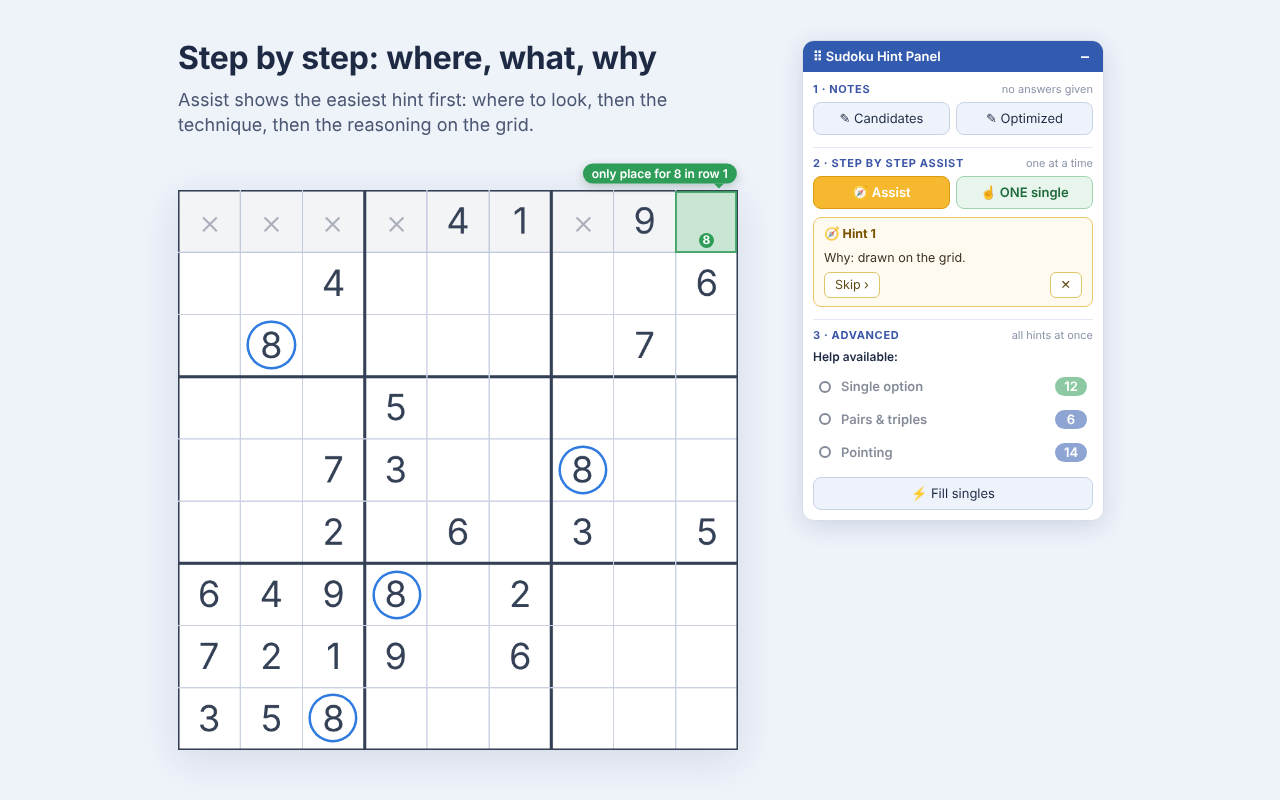
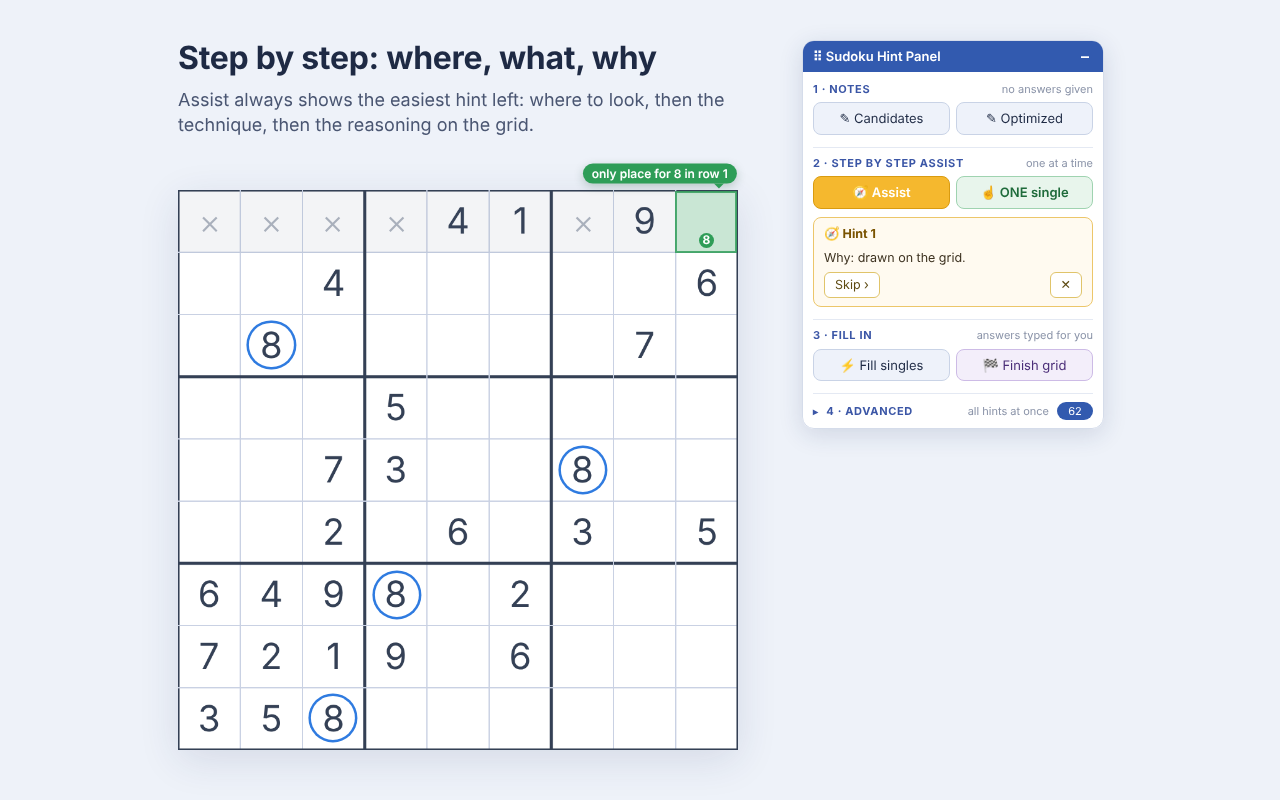
4.1.0 — public release: new description, screenshots and marquee
Store description (EN/FR) rewritten around the four sections and the full
set of techniques; manifest summary updated; five new screenshots
(overview, step by step assist, reasoning, optimized notes, expert
techniques) and a new marquee, all from the current panel.

Claude-Session: https://claude.ai/code/session_01U1DuCeTJMyiTMPg3LWMkC1

Changed region(s): [[0.625, 0.4062, 0.875, 0.5938], [0.1875, 0.0938, 0.5312, 0.1562], [0.7188, 0.5938, 0.7812, 0.625]]

diff --git a/store/listing-fr.md b/store/listing-fr.md
@@ -4,38 +4,43 @@
 Sudoku Hint Panel
 
 ## Résumé (132 car. max — la « description courte »)
-Apprenez les techniques de sudoku sur sudoku.com : voyez s'il y a de l'aide, de quel type et où — un indice à la fois, expliqué.
+Apprenez les techniques de sudoku sur sudoku.com : des notes jusqu'à un indice à la fois, expliqué — au niveau d'aide choisi.
 
 ## Catégorie
 Jeux  *(alternative : Éducation)*
 
 ## Description
 
-Sudoku Hint Panel est un compagnon d'apprentissage pour les grilles de sudoku.com. Il ne résout jamais la grille à votre place sans que vous le demandiez : il vous dit si une étape est possible, quelle technique elle utilise et où elle se trouve — au niveau d'aide que vous choisissez.
+Sudoku Hint Panel est un compagnon d'apprentissage pour les grilles de sudoku.com. Il ne résout jamais la grille à votre place sans que vous le demandiez : il vous dit si une étape est possible, quelle technique elle utilise et où elle se trouve — au niveau d'aide que vous choisissez, de la simple prise de notes jusqu'au raisonnement complet du prochain coup.
 
-APPRENEZ À VOTRE NIVEAU
-• Juste les compteurs : le panneau indique combien de choix uniques, paires et triplets, « pointing » et chaînes existent en ce moment. Rien n'est dessiné sur la grille tant que vous n'ouvrez pas une catégorie.
-• Une technique : ouvrez une catégorie pour voir ses indices, discrètement, sur la grille.
-• Un indice : « ☝ ONE single » montre un seul prochain coup, le plus simple d'abord, et le garde affiché jusqu'à ce que vous remplissiez la case.
-• Assistant pas à pas : « 🧭 Assist » vous guide un indice à la fois, de la technique la plus simple à la plus complexe — d'abord où regarder, puis quoi, puis pourquoi. Appliquez-le et le suivant apparaît ; « Skip » passe au suivant.
-• Le raisonnement : avec une catégorie activée, survolez un de ses indices sur la grille pour le voir en entier, avec les indices précédents dont il dépend — pour le trouver vous-même la prochaine fois.
-• Pourquoi c'est un choix unique, dessiné sur la grille : survolez une case verte — des cercles bleus montrent les chiffres qui excluent le reste, des × gris les cases impossibles, le rouge seulement quand un indice précédent a été nécessaire.
-
-TECHNIQUES
-• Choix unique — une case où un seul chiffre est possible, ou un chiffre qui n'a plus qu'une place dans une ligne, une colonne ou un carré.
-• Paires et triplets — 2 cases partageant les 2 mêmes candidats (ou 3 en partageant 3) : ces chiffres s'effacent du reste de la ligne, colonne ou carré. Paires et triplets cachés aussi : 2 chiffres qui ne vont que dans les 2 mêmes cases (ou 3 dans 3), dont les autres notes s'effacent.
-• Pointing — quand les candidats d'un chiffre dans un carré sont tous sur une même ligne ou colonne, ce chiffre s'efface du reste de cette ligne ; et inversement, quand ceux d'une ligne ou colonne sont tous dans un même carré, il s'efface du reste du carré.
-• Chaînes — quand rien de plus simple n'aide : là où un chiffre n'a que deux places dans une ligne, colonne ou carré, l'une des deux le contient. Reliées, ces cases alternent entre deux couleurs, et l'une des couleurs porte tous ces chiffres. Une couleur qui mettrait le chiffre deux fois dans une même unité est fausse, et une case qui voit les deux couleurs ne peut pas le contenir.
-• Techniques expertes, repliées jusqu'à ce que vous en ayez besoin : quads, X-wing et poissons (swordfish, jellyfish), wings (XY, XYZ, W), rectangles uniques, longues chaînes (X et XY) et chaînes forcées — chacune utilisée seulement quand rien de plus simple ne trouve rien.
-• Indices enchaînés — les indices qui n'apparaissent qu'après en avoir appliqué d'autres sont aussi trouvés, marqués « step 2, step 3… ».
-
-OUTILS PRATIQUES
+LE PANNEAU, DU MOINS D'AIDE AU PLUS
+1 · Notes — aucune réponse donnée
 • ✎ Candidates remplit les notes de toutes les cases vides.
-• ✎ Optimized les remplit déjà réduites par toutes les paires, triplets et « pointing », en chaîne jusqu'à ce que plus rien ne change.
-• ⚡ Fill singles inscrit le chiffre dans chaque case à choix unique.
-• 🏁 Finish grid inscrit la solution dans toutes les cases vides quand vous êtes vraiment bloqué (deux clics pour confirmer).
+• ✎ Optimized les remplit déjà réduites par toutes les paires, triplets, « pointing » et chaînes.
+
+2 · Assistant pas à pas — un indice à la fois
+• 🧭 Assist vous guide dans la grille, toujours avec l'indice le plus simple qui reste : d'abord où regarder, puis quoi (la technique et ses cases), puis pourquoi (le raisonnement dessiné sur la grille). Appliquez-le et le suivant apparaît ; « Skip » passe au suivant.
+• ☝ ONE single montre un seul prochain coup et le garde affiché jusqu'à ce que vous remplissiez la case.
+
+3 · Remplir — réponses tapées pour vous
+• ⚡ Fill singles inscrit le chiffre dans chaque case où un seul est possible.
+• 🏁 Finish grid inscrit toute la solution quand vous êtes vraiment bloqué (deux clics pour confirmer).
+
+4 · Avancé — tous les indices d'un coup (replié jusqu'à ce que vous l'ouvriez)
+• Combien d'indices existent pour chaque technique en ce moment ; ouvrez-en une pour les voir sur la grille, et survolez un indice pour voir pourquoi il marche et de quels indices précédents il dépend.
+
+LES TECHNIQUES, DE LA PLUS SIMPLE
+• Choix unique — une case où un seul chiffre est possible, ou un chiffre qui n'a plus qu'une place dans une ligne, une colonne ou un carré. Survolez une case verte pour voir pourquoi : des cercles bleus marquent les chiffres qui excluent le reste, des × gris les cases impossibles.
+• Pointing — les candidats d'un chiffre dans un carré sont tous sur une même ligne ou colonne (ou l'inverse) : ce chiffre s'efface du reste de la ligne (ou du carré).
+• Paires et triplets — visibles (2 cases partageant les 2 mêmes candidats, ou 3 en partageant 3) et cachés (2 chiffres qui ne vont que dans les 2 mêmes cases, ou 3 dans 3).
+• Chaînes — là où un chiffre n'a que deux places, les cases reliées alternent entre deux couleurs, et l'une des couleurs porte tous ces chiffres.
+• Techniques expertes, repliées jusqu'à ce que vous en ayez besoin : quads, X-wing et poissons (swordfish, jellyfish), wings (XY, XYZ, W), rectangles uniques, longues chaînes (X et XY) et chaînes forcées.
+Une technique plus difficile n'est utilisée que quand rien de plus simple ne trouve rien, pour que les indices restent aussi simples que la grille le permet. Les indices qui n'apparaissent qu'après en avoir appliqué d'autres sont aussi trouvés, marqués « step 2, step 3… ».
+
+BON À SAVOIR
 • Fonctionne en Classic et Killer, sur le défi quotidien et les éditions spéciales (ex. Storybook).
-• Se met à jour en direct pendant que vous jouez, fonctionne sur une nouvelle grille avant le premier coup, et ne dessine jamais par-dessus une fenêtre du site.
+• Se met à jour en direct pendant que vous jouez, fonctionne sur une nouvelle grille avant le premier coup, ne dessine jamais par-dessus une fenêtre du site, et se met en veille quand aucune partie n'est à l'écran.
+• Si l'une de vos notes exclut le chiffre qui va réellement dans la case, le panneau vous le signale et montre où, au lieu de donner un indice faux.
 • Panneau léger et déplaçable ; le vert est réservé aux cases où un seul chiffre est possible.
 
 FAIR-PLAY

diff --git a/store/listing-en.md b/store/listing-en.md
@@ -4,38 +4,43 @@
 Sudoku Hint Panel
 
 ## Summary (max 132 — the store's "short description")
-Learn sudoku techniques on sudoku.com: see if help exists, which kind, and where — one hint at a time, with its reasoning.
+Learn sudoku on sudoku.com: from filling notes to one hint at a time with its reasoning — at the level of help you choose.
 
 ## Category
 Games  *(alternative: Education)*
 
 ## Description
 
-Sudoku Hint Panel is a learning companion for the puzzles on sudoku.com. It never solves the grid for you unless you ask: it tells you whether a step is available, which technique it uses and where it is — at the level of help you choose.
+Sudoku Hint Panel is a learning companion for the puzzles on sudoku.com. It never solves the grid for you unless you ask: it tells you whether a step is available, which technique it uses and where it is — at the level of help you choose, from just filling your notes to the full reasoning of the next move.
 
-LEARN AT YOUR OWN LEVEL
-• Just the counts: the panel shows how many single options, pairs & triples, pointing and chain hints exist right now. Nothing is drawn on the grid until you open a category.
-• One technique: open a category to see its hints faintly on the grid.
-• One hint: "☝ ONE single" shows a single next move, easiest first, and keeps it until you fill the cell.
-• Step by step assist: "🧭 Assist" guides you one hint at a time, from the simplest technique to the most complex — first where to look, then what, then why. Apply it and the next one appears; Skip jumps ahead.
-• The reasoning: with a category on, hover one of its hints on the grid to see it in full, with the earlier hints it relies on — so next time you can find it yourself.
-• Why it's a single, drawn on the grid: hover a green cell — blue circles show the digits that rule out the rest, grey × the cells that can't take it, red only when an earlier hint was needed.
-
-TECHNIQUES
-• Single option — a cell where only one digit fits, or a digit with only one place left in a row, column or box.
-• Pairs & triples — 2 cells sharing the same 2 candidates (or 3 sharing 3): those digits can be erased from the rest of the row, column or box. Hidden pairs & triples too: 2 digits that fit in only the same 2 cells (or 3 in 3), so those cells' other notes go.
-• Pointing — when a box's candidates for a digit all sit in one row or column, that digit can be erased from the rest of the line; and the other way round, when a row's or column's candidates all sit in one box, from the rest of the box.
-• Chains — when nothing simpler helps: where a digit has only two places in a row, column or box, one of them holds it. Linked together, these cells alternate between two colours, and one colour holds all of that digit. A colour that would put the digit twice in one unit is wrong, and a cell that sees both colours can't hold it.
-• Expert techniques, folded away until you want them: quads, X-wing & fish (swordfish, jellyfish), wings (XY, XYZ, W), unique rectangles, long chains (X- and XY-chains) and forcing chains — each used only when everything simpler finds nothing.
-• Chained hints — hints that only appear once earlier ones are applied are found too, tagged "step 2, step 3…".
-
-PRACTICAL TOOLS
+THE PANEL, FROM THE LEAST HELP TO THE MOST
+1 · Notes — no answers given
 • ✎ Candidates fills in every empty cell's pencil notes.
-• ✎ Optimized fills them in already narrowed by every pair, triple and pointing erasure, chained until nothing changes.
-• ⚡ Fill singles types the digit into every single-option cell.
-• 🏁 Finish grid types the solution into every empty cell when you're stuck for good (click twice to confirm).
+• ✎ Optimized fills them in already narrowed by every pair, triple, pointing and chain erasure.
+
+2 · Step by step assist — one hint at a time
+• 🧭 Assist guides you through the grid, always with the easiest hint left: first where to look, then what (the technique and its cells), then why (the reasoning drawn on the grid). Apply it and the next one appears; Skip jumps ahead.
+• ☝ ONE single shows a single next move and keeps it until you fill the cell.
+
+3 · Fill in — answers typed for you
+• ⚡ Fill singles types the digit into every cell where only one fits.
+• 🏁 Finish grid types the whole solution when you're stuck for good (click twice to confirm).
+
+4 · Advanced — all hints at once (folded until you open it)
+• How many hints of each technique exist right now; open one to see them on the grid, and hover a hint to see why it works and which earlier hints it relies on.
+
+TECHNIQUES, FROM THE SIMPLEST
+• Single option — a cell where only one digit fits, or a digit with only one place left in a row, column or box. Hover a green cell to see why: blue circles mark the digits that rule out the rest, grey × the cells that can't take it.
+• Pointing — a box's candidates for a digit all in one row or column (or the other way round): that digit goes from the rest of the line (or box).
+• Pairs & triples — naked (2 cells sharing the same 2 candidates, or 3 sharing 3) and hidden (2 digits that fit only in the same 2 cells, or 3 in 3).
+• Chains — where a digit has only two places, linked cells alternate between two colours, and one colour holds all of that digit.
+• Expert techniques, folded away until you want them: quads, X-wing & fish (swordfish, jellyfish), wings (XY, XYZ, W), unique rectangles, long chains (X- and XY-chains) and forcing chains.
+A harder technique is only used when everything simpler finds nothing, so hints stay as easy as the grid allows. Hints that only appear once earlier ones are applied are found too, tagged "step 2, step 3…".
+
+GOOD TO KNOW
 • Works on Classic and Killer games, the daily challenge and special editions (e.g. Storybook).
-• Updates live as you play, works on a brand-new grid before your first move, and never draws over a site pop-up.
+• Updates live as you play, works on a brand-new grid before your first move, never draws over a site pop-up, and goes quiet when no game is on screen.
+• If one of your notes rules out the digit that really goes there, the panel tells you and shows where, instead of giving a wrong hint.
 • Light, movable panel; green is used only where a single digit fits.
 
 FAIR PLAY

diff --git a/store/privacy-and-review-answers.md b/store/privacy-and-review-answers.md
@@ -1,12 +1,12 @@
 # Answers for the "Privacy practices" tab of the Developer Dashboard
 
 ## Single purpose (required)
-Shows sudoku solving hints (candidates, single options, pairs/triples, pointing) in a panel on sudoku.com puzzle pages, so players can learn techniques at the level of help they choose.
+Shows sudoku solving hints (candidates, single options, pairs/triples, pointing, chains and harder techniques, one at a time or all at once) in a panel on sudoku.com puzzle pages, so players can learn techniques at the level of help they choose.
 
 ## Permission justification
 The extension requests no API permissions. It only declares content scripts for `https://sudoku.com/*` and `https://www.sudoku.com/*`.
 
-- **Host access to sudoku.com** — needed to read the current puzzle (which the site keeps in the page's local storage and loads from its own API), to draw the hint overlay on the grid, and to type digits/notes when the player clicks "Candidates" or "Fill singles". No other site is accessed.
+- **Host access to sudoku.com** — needed to read the current puzzle (which the site keeps in the page's local storage and loads from its own API), to draw the hint overlay on the grid, and to type notes or digits when the player clicks "Candidates", "Optimized", "Fill singles" or "Finish grid". No other site is accessed.
 - **Main-world script (`page-bridge.js`)** — runs in the page to notice the moment the game saves a move or loads a new puzzle, so hints update live. It reads data only; it does not send anything anywhere.
 
 ## Remote code

diff --git a/docs/PUBLISHING.md b/docs/PUBLISHING.md
@@ -15,13 +15,13 @@ Done: https://github.com/r0main-f/sudoku-hint-panel
 4. If asked, enable 2-Step Verification on the account, and declare your status: for a free hobby project you are normally a **non-trader**.
 
 ## 3. New item
-1. **Add new item** → upload `sudoku-hint-panel-4.0.2.zip` (the zip contains only the `extension/` files, manifest at its root).
+1. **Add new item** → upload `sudoku-hint-panel-4.1.0.zip` (the zip contains only the `extension/` files, manifest at its root).
 
 ## 4. Store listing tab
 - **Description:** paste the English description from `store/listing-en.md`. The summary comes from the manifest (`description`).
 - **Category:** Games (or Education).
 - **Language:** English. Then add **French** and paste `store/listing-fr.md`.
-- **Graphics:** store icon = `store/store-icon-128.png` (128×128, 96 px artwork with transparent padding); upload the four `store/screenshot-*.png` (1280×800) and `store/promo-tile-440x280.png` as the small promo tile, and `store/marquee-promo-1400x560.png` as the marquee (large) promo tile.
+- **Graphics:** store icon = `store/store-icon-128.png` (128×128, 96 px artwork with transparent padding); upload the five `store/screenshot-*.png` (1280×800) and `store/promo-tile-440x280.png` as the small promo tile, and `store/marquee-promo-1400x560.png` as the marquee (large) promo tile.
 - **Additional fields:** homepage URL = GitHub repository; support URL = the repository's Issues page.
 
 ## 5. Privacy tab

diff --git a/README.md b/README.md
@@ -39,6 +39,8 @@ Listed from the simplest help to the most advanced, as in the panel. A technique
 | **Long chains** | X-chains (one digit, alternating “only two places” and “see each other” links) and XY-chains (cells with two notes passing one on): one of the two ends holds the digit, so cells seeing both ends lose it. |
 | **Forcing chains** | The last resort: if this cell were 5, the singles that follow would leave a cell or a unit with no possible digit — so it isn't 5. The cell tried, the singles that follow (grey) and where it breaks (red) are drawn. |
 
+![Expert techniques](store/screenshot-5-expert.png)
+
 On a test set of generated hard puzzles, the panel's own hints solve them all; on the very hardest grids ever designed, it may still run out — **🏁 Finish grid** always works.
 
 **Chained hints:** every erasure a hint allows is applied and the search runs again until nothing new appears, so hints that only exist after earlier ones are found too. They are tagged **step 2, step 3…**.
